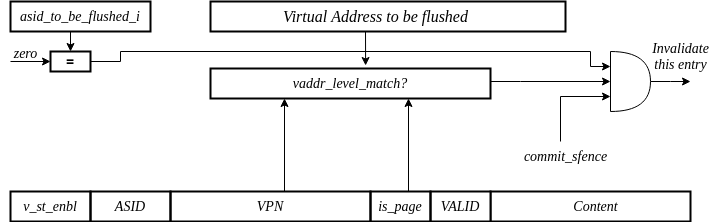
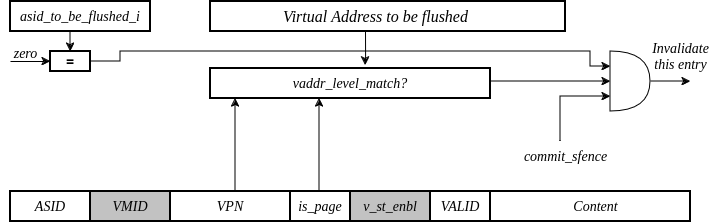
update design document

diff --git a/docs/03_cva6_design/MMU.rst b/docs/03_cva6_design/MMU.rst
@@ -7,7 +7,7 @@ The Memory Management Unit (MMU) module is a crucial component in the RISC-V-bas
 .. figure:: _static/mmu_in_out.png
    :name: **Figure 1:** Inputs and Outputs of CVA6 MMU
    :align: center
-   :width: 70%
+   :width: 100%
    :alt: mmu_in_out
 
    **Figure 1:** Inputs and Outputs of CVA6 MMU
@@ -350,7 +350,7 @@ The MMU block can be parameterized to support sv32, sv39 and sv39x4 virtual memo
    * - ``priv_lvl_i``
      - in
      - CSR RegFile
-     - riscv::priv_lvl_t
+     - priv_lvl_t
      - Privilege level for instruction fetch interface
 
    * - ``v_i``
@@ -362,7 +362,7 @@ The MMU block can be parameterized to support sv32, sv39 and sv39x4 virtual memo
    * - ``ld_st_priv_lvl_i``
      - in
      - CSR RegFile
-     - riscv::priv_lvl_t
+     - priv_lvl_t
      - Indicates the virtualization mode at which load and stores should happen
 
    * - ``ld_st_v_i``
@@ -434,25 +434,25 @@ The MMU block can be parameterized to support sv32, sv39 and sv39x4 virtual memo
    * - ``vs_asid_i``
      - in
      - CSR RegFile
-     - logic [ASID_WIDTH-1:0]
+     - logic [ASIDW-1:0]
      - ASID for the lookup for virtual supervisor when Hypervisor extension is enabled
 
    * - ``vmid_i``
      - in
      - CSR RegFile
-     - logic [VMID_WIDTH-1:0]
+     - logic [VMIDW-1:0]
      - VMID for the lookup when Hypervisor extension is enabled
 
    * - ``asid_to_be_flushed_i``
      - in
      - Execute Stage
-     - logic [ASID_WIDTH-1:0]
+     - logic [ASIDW-1:0]
      - ASID of the entry to be flushed
 
    * - ``vmid_to_be_flushed_i``
      - in
      - Execute Stage
-     - logic [VMID_WIDTH-1:0]
+     - logic [VMIDW-1:0]
      - VMID of the entry to be flushed when Hypervisor extension is enabled
 
    * - ``vaddr_to_be_flushed_i``
@@ -512,7 +512,7 @@ The MMU block can be parameterized to support sv32, sv39 and sv39x4 virtual memo
    * - ``pmpcfg_i``
      - in
      - CSR RegFile
-     - riscv::pmpcfg_t [15:0]
+     - pmpcfg_t [15:0]
      - PMP configurations
 
    * - ``pmpaddr_i``
@@ -710,7 +710,7 @@ The input and output signals of the TLB are shown in the following figure.
 .. figure:: _static/in_out_tlb.png
    :name: **Figure 4:** Inputs and Outputs of CVA6 TLB
    :align: center
-   :width: 65%
+   :width: 100%
    :alt: in_out_tlb
  
    **Figure 4:** Inputs and Outputs of CVA6 TLB
@@ -976,12 +976,12 @@ The input and output signals of the TLB are shown in the following figure.
 
    <span style="font-size:18px; font-weight:bold;">TLB Entry Fields</span>
 
-The number of TLB entries can be changed via a design parameter. Each TLB entry is made up of two fields: Tag and Content. The Tag field holds the virtual page number, ASID, VMID and page size along with a valid bit (VALID) indicating that the entry is valid, and a v_st_enbl field that indicates at which level the translation is valid when hypervisor mode is enabled. The virtual page number, is further split into several separate virtual page numbers according to the number of PtLevels used in each configuration. The Content field contains the physical page numbers along with a number of bits which specify various attributes of the physical page. Note that the V bit in the Content field is the V bit which is present in the page table in memory. It is copied from the page table, as is,  and the VALID bit in the Tag is set based on its value. g_content is the equivalent for the g-stage translation. The TLB entry fields are shown in this Figure.
+The number of TLB entries can be changed via a design parameter. Each TLB entry is made up of two fields: Tag and Content. The Tag field holds the virtual page number, ASID, VMID and page size along with a valid bit (VALID) indicating that the entry is valid, and a v_st_enbl field that indicates at which level the translation is valid when hypervisor mode is enabled. The virtual page number, is further split into several separate virtual page numbers according to the number of PtLevels used in each configuration. The Content field contains the physical page numbers along with a number of bits which specify various attributes of the physical page. Note that the V bit in the Content field is the V bit which is present in the page table in memory. It is copied from the page table, as is,  and the VALID bit in the Tag is set based on its value. g_content is the equivalent for the g-stage translation. The TLB entry fields are shown in this Figure. Fields colored in grey are used only when H extension is implemented.
 
 .. figure:: _static/cva6_tlb_entry.png
    :name: **Figure 5:** Fields in CVA6 TLB entry
    :align: center
-   :width: 80%
+   :width: 100%
    :alt: cva6_tlb_entry
 
    **Figure 5:** Fields in CVA6 TLB entry
@@ -1179,7 +1179,7 @@ The input and output signals of the shared TLB are shown in the following Figure
 .. figure:: _static/shared_tlb_in_out.png
    :name: **Figure 14:** Inputs and outputs of CVA6 shared TLB
    :align: center
-   :width: 60%
+   :width: 100%
    :alt: shared_tlb_in_out
 
    **Figure 14:** Inputs and outputs of CVA6 shared TLB
@@ -1506,7 +1506,7 @@ The "CVA6 Page Table Walker (PTW)" is a hardware module designed to facilitate t
 .. figure:: _static/ptw_in_out.png
    :name: **Figure 19:** Input and Outputs of Page Table Walker
    :align: center
-   :width: 60%
+   :width: 100%
    :alt: ptw_in_out
 
    **Figure 19:** Input and Outputs of Page Table Walker
@@ -1601,40 +1601,40 @@ In addition to its translation capabilities, the PTW module is equipped to detec
       - Output signal indicating that a PMP (Physical Memory Protection) access exception occurred during PTW operation.
 
     * - ``enable_translation_i``
-     - in
-     - CSR RegFile
-     - logic 
-     - Enables address translation request for instruction
+      - in
+      - CSR RegFile
+      - logic 
+      - Enables address translation request for instruction
 
     * - ``enable_g_translation_i``
-     - in
-     - CSR RegFile
-     - logic 
-     - Enables virtual memory translation for instrucionts
+      - in
+      - CSR RegFile
+      - logic 
+      - Enables virtual memory translation for instrucionts
 
     * - ``en_ld_st_translation_i``
-     - in
-     - CSR RegFile
-     - logic
-     - Enables address translation request for load or store
+      - in
+      - CSR RegFile
+      - logic
+      - Enables address translation request for load or store
 
     * - ``en_ld_st_g_translation_i``
-     - in
-     - CSR RegFile
-     - logic
-     - Enables virtual memory translation for load or store
+      - in
+      - CSR RegFile
+      - logic
+      - Enables virtual memory translation for load or store
 
     * - ``v_i``
-     - in
-     - CSR RegFile
-     - logic
-     - Virtualization mode state
+      - in
+      - CSR RegFile
+      - logic
+      - Virtualization mode state
 
     * - ``ld_st_v_i``
-     - in
-     - CSR RegFile
-     - logic
-     - Virtualization mode state
+      - in
+      - CSR RegFile
+      - logic
+      - Virtualization mode state
     
     * - ``hlvx_inst_i``
       - in
@@ -1681,13 +1681,13 @@ In addition to its translation capabilities, the PTW module is equipped to detec
     * - ``vs_asid_i``
       - in
       - CSR RegFile
-      - logic [ASID_WIDTH-1:0]
+      - logic [ASIDW-1:0]
       - ASID for the lookup for virtual supervisor when Hypervisor extension is enabled
 
     * - ``vmid_i``
       - in
       - CSR RegFile
-      - logic [VMID_WIDTH-1:0]
+      - logic [VMIDW-1:0]
       - VMID for the lookup when Hypervisor extension is enabled
 
     * - ``shared_tlb_access_i``
@@ -1753,13 +1753,13 @@ In addition to its translation capabilities, the PTW module is equipped to detec
     * - ``pmpcfg_i``
       - in
       - CSR RegFile
-      - riscv::pmpcfg_t[15:0]
+      - pmpcfg_t[15:0]
       - PMP configuration
 
     * - ``pmpaddr_i``
       - in
       - CSR RegFile
-      - logic[15:0][riscv::PLEN-3:0]
+      - logic[15:0][PLEN-3:0]
       - PMP Address
 
     * - ``bad_paddr_o``
@@ -1798,7 +1798,7 @@ In addition to its translation capabilities, the PTW module is equipped to detec
      - Tag of the Dcache Line
 
    * - ``data_wdata``
-     - riscv::xlen_t
+     - xlen_t
      - Data to write in the Dcache
 
    * - ``data_wuser``
@@ -1857,7 +1857,7 @@ In addition to its translation capabilities, the PTW module is equipped to detec
      - Requested data ID
 
    * - ``data_rdata``
-     - riscv::xlen_t
+     - xlen_t
      - Data from D cache
 
    * - ``data_ruser``
